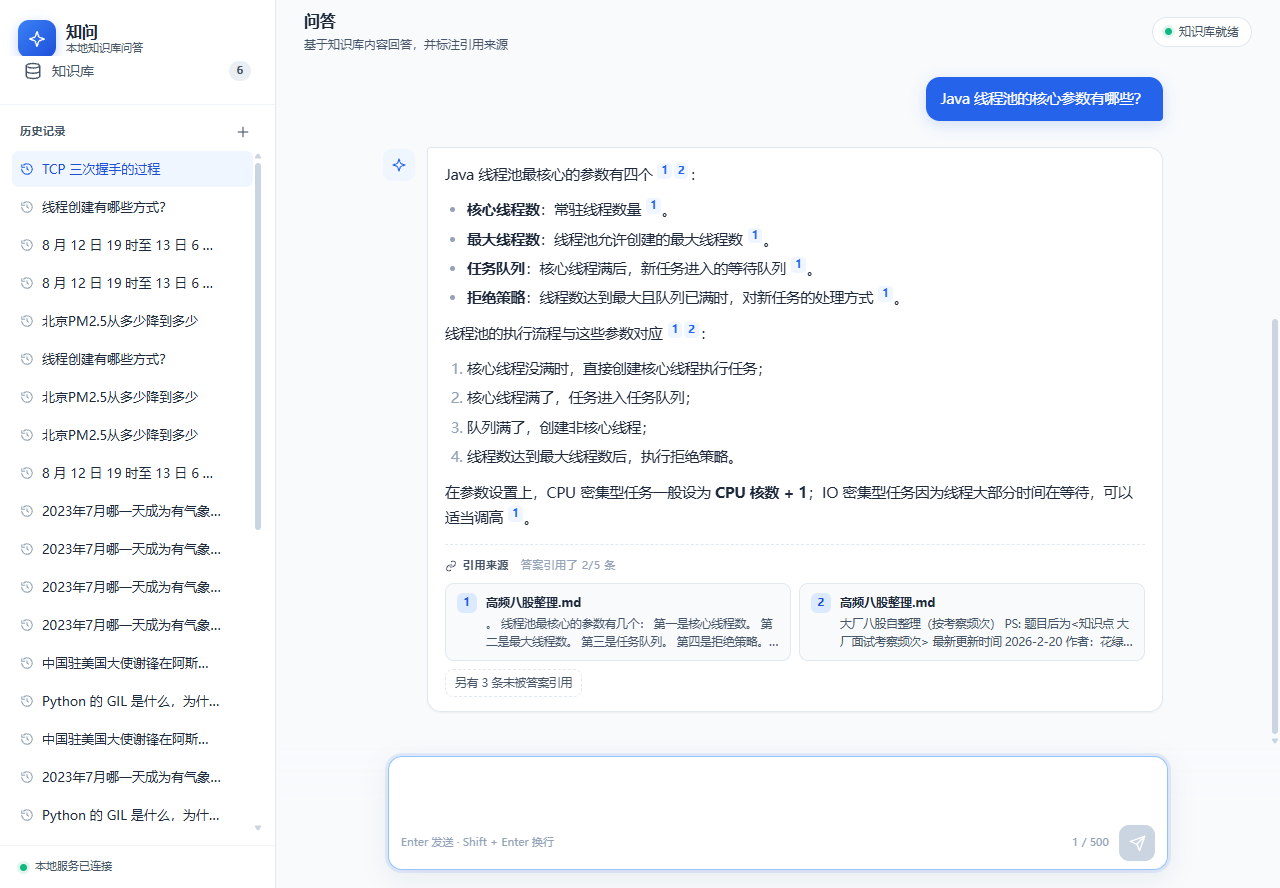
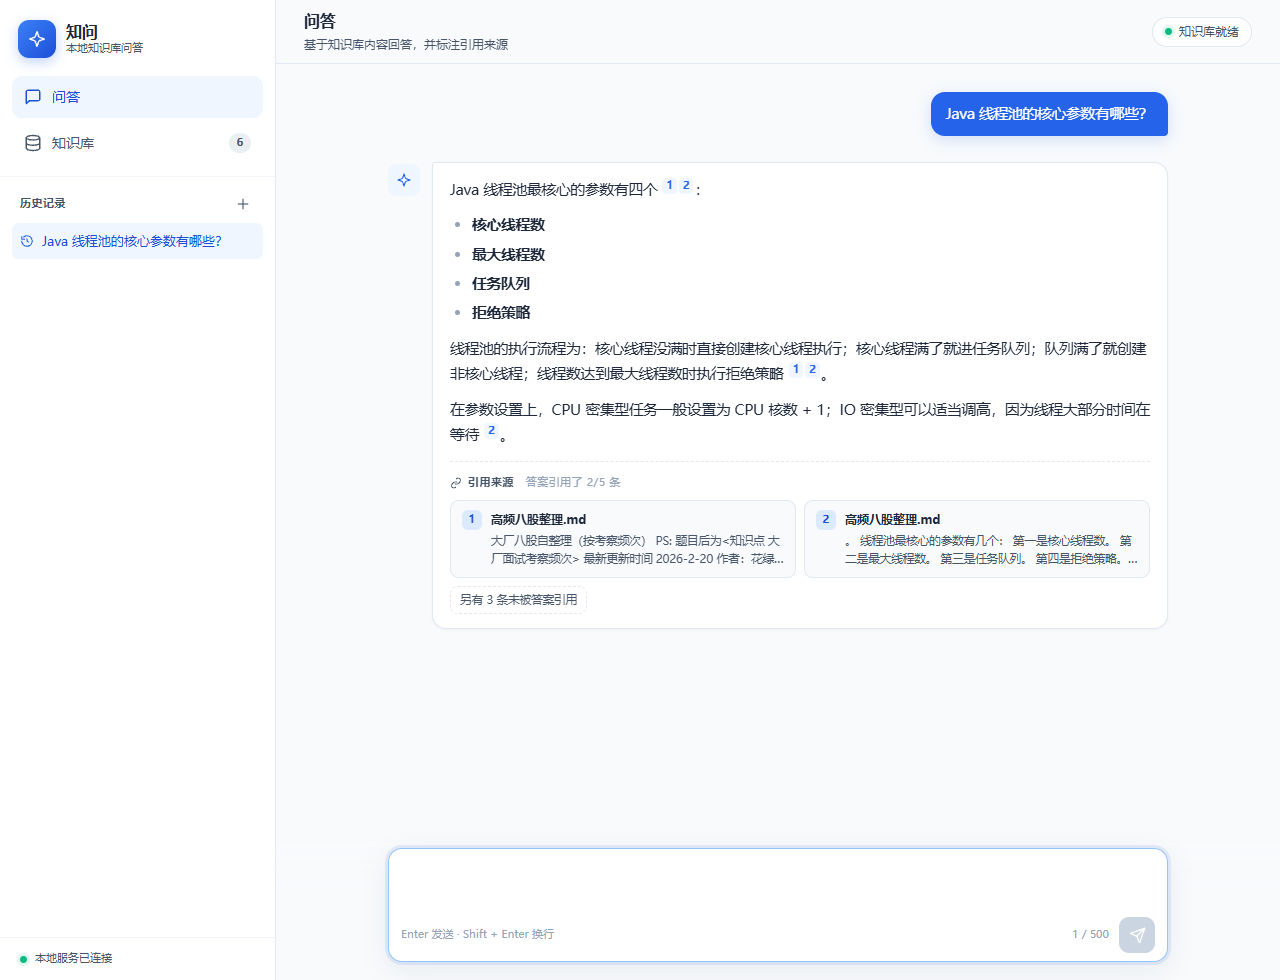
docs: 补充界面截图与核心功能

diff --git a/README.md b/README.md
@@ -4,6 +4,16 @@
 
 ![问答界面](docs/images/qa-demo.png)
 
+## 核心功能
+
+| 能力 | 说明 |
+| --- | --- |
+| 上传解析 | PDF / Word / Markdown / TXT / Excel / CSV，扫描件自动 OCR |
+| 混合检索 | 向量召回 + BM25 关键词，RRF 按名次融合 |
+| 带引用回答 | 流式输出，每条结论标注来源片段；无依据时明确拒答 |
+| 多轮追问 | 保留最近 5 轮上下文 |
+| 文档管理 | 列表、删除、片段只读预览 |
+
 ## 设计与取舍
 
 **向量库就用 pgvector，不引入独立服务**
@@ -11,12 +21,6 @@
 
 **混合检索用 RRF，不给分数调权重**
 dense 与 BM25 的分数量纲不可比，线性加权要反复调参。RRF 只用名次融合，两路各取 top-20，零调参，且单路召回失效时另一路仍能兜住。
-
-**宁可启动等 20 秒，不要「端口通了但模型没就绪」**
-向量模型 8~11 s、BM25 10 s，同步初始化后约 18~23 s 才对外服务。换来的是任何请求都有确定延迟——不存在首个用户静默卡 105 秒、连得上却不干活的窗口。
-
-**BM25 用 bm25s，换之前先证明等价**
-自研实现换成熟库之前，先用 20 条真实问题验证：top-10 完全同序、无命中行为一致、16 项单测通过。分数整体缩放 0.4 倍，但 RRF 只看名次，链路无影响。
 
 **扫描件 PDF 走本地 OCR，不调云 API**
 RapidOCR + PP-OCRv4，依赖增量 26 MB，字符相似度 0.99，1.1~2.9 s/页；带文字层的 PDF 完全不受影响（0.09 s 走原路径）。代价是首次 0.6 s 引擎初始化。
@@ -33,8 +37,7 @@ server/api/           路由与请求校验（不写 SQL）
 server/services/      业务编排
   │
   ├─ server/rag/      纯算法：解析 / 切分 / 嵌入 / BM25 / RRF / 生成
-  ├─ server/db/       全部 SQL
-  └─ server/core/     配置 / 错误 / 日志 / 存储
+  └─ server/db + core 全部 SQL · 配置 / 错误 / 日志 / 存储
 ```
 
 一次问答经过：问句 → 嵌入 → dense top-k + BM25 top-k → RRF 融合 → 上下文拼装 → DeepSeek 流式 → SSE（`citations` → `delta`* → `done`）。
@@ -64,6 +67,16 @@ cd web && npm install && npm run dev    # 另开终端，访问 http://127.0.0.1
 
 需要 Python 3.11+、PostgreSQL 15+（装 pgvector）、Node.js 18+。首次运行会下载 `BAAI/bge-small-zh-v1.5`（约 95 MB）到 `HF_HOME`。全部环境变量见 [.env.example](.env.example)。
 
+## 界面
+
+**知识库**：上传文档后自动解析、切分、向量化。
+
+![知识库](docs/images/knowledge-base.png)
+
+**片段预览**：点开任一文档，逐片段查看入库原文。
+
+![片段预览](docs/images/preview.png)
+
 ## 技术栈
 
 | 层 | 选型 |
@@ -83,8 +96,7 @@ server/             后端单包，分层见上方架构图（地图见 server/R
 web/                前端：问答 / 知识库两页
 docs/               需求、SRS、设计 00~11、规范
 scripts/            迁移、启动脚本、建表 SQL
-prototype/          高保真原型（交互蓝本）
-evals/              评测数据集与跑测产物
+evals/              评测数据集
 tools/eval/         评测脚本（采集 / 指标 / RAGAS）
 ```
 
